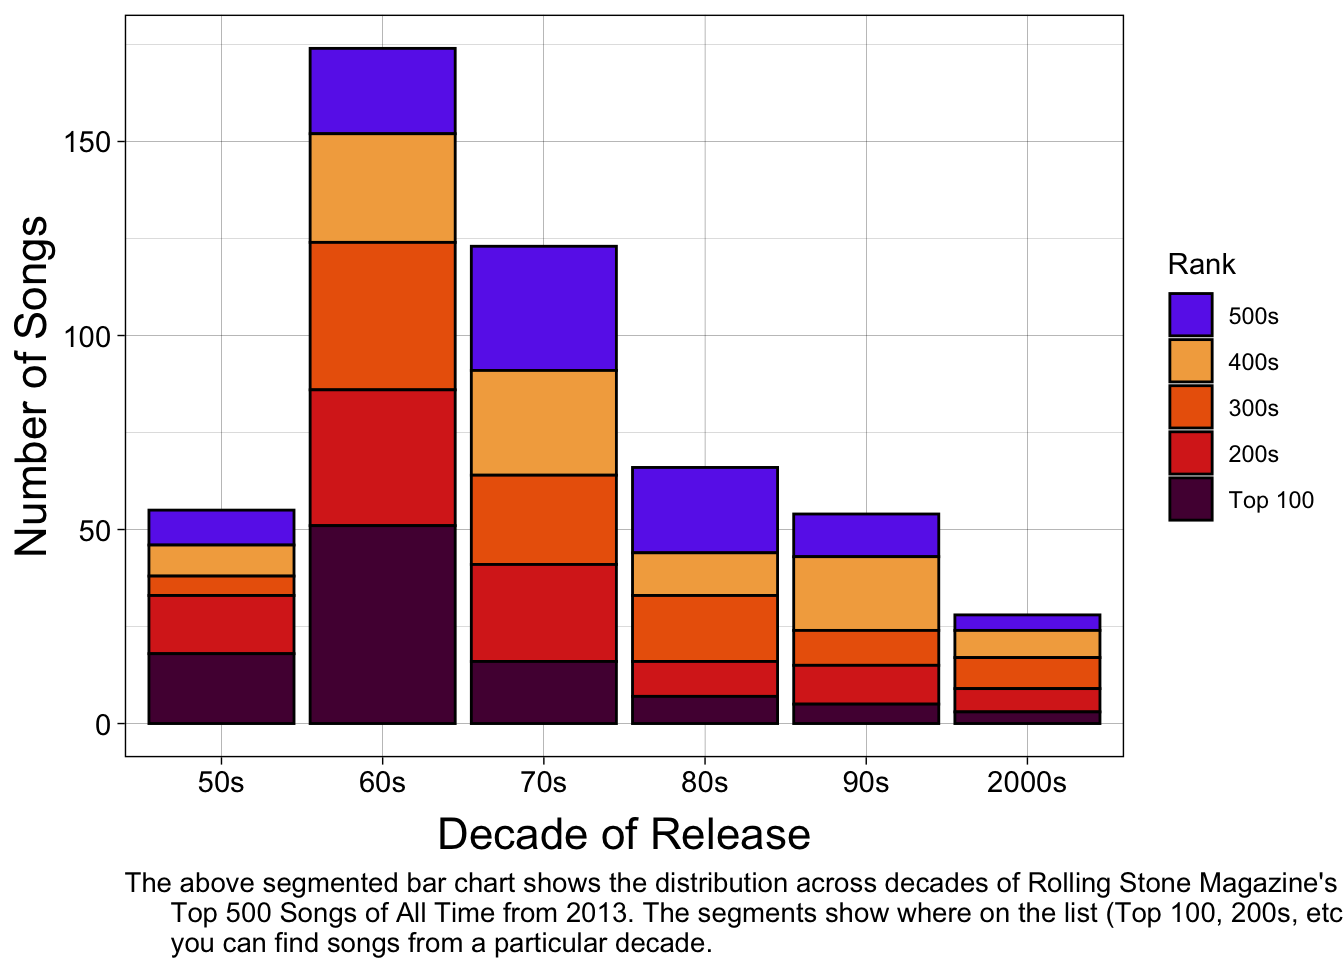
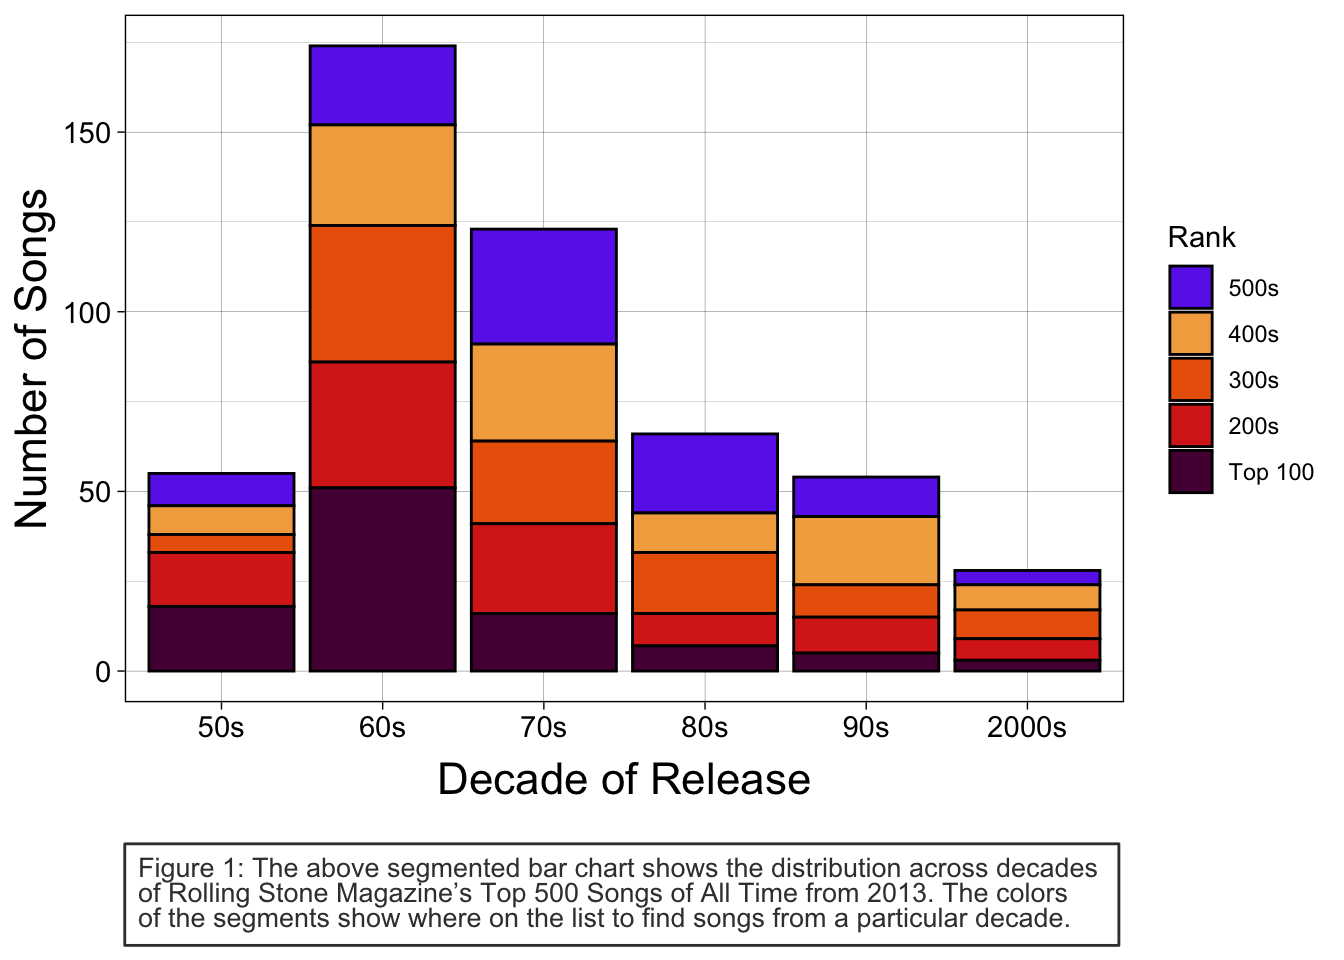
x

diff --git a/docs/yet-another-page.html b/docs/yet-another-page.html
@@ -205,9 +205,14 @@ Figure&nbsp;1
 <div id="tabset-1-1" class="tab-pane active" role="tabpanel" aria-labelledby="tabset-1-1-tab">
 <div class="cell">
 <div class="cell-output-display">
-<div>
-<figure class="figure">
-<p><img src="yet-another-page_files/figure-html/decades of top artists' songs-1.png" class="img-fluid figure-img" width="672"></p>
+<div id="fig-tops" class="quarto-float quarto-figure quarto-figure-center anchored" width="672">
+<figure class="quarto-float quarto-float-fig figure">
+<div aria-describedby="fig-tops-caption-0ceaefa1-69ba-4598-a22c-09a6ac19f8ca">
+<img src="yet-another-page_files/figure-html/fig-tops-1.png" id="fig-tops" class="img-fluid figure-img" width="672">
+</div>
+<figcaption class="quarto-float-caption-bottom quarto-float-caption quarto-float-fig quarto-uncaptioned" id="fig-tops-caption-0ceaefa1-69ba-4598-a22c-09a6ac19f8ca">
+Figure&nbsp;2
+</figcaption>
 </figure>
 </div>
 </div>
